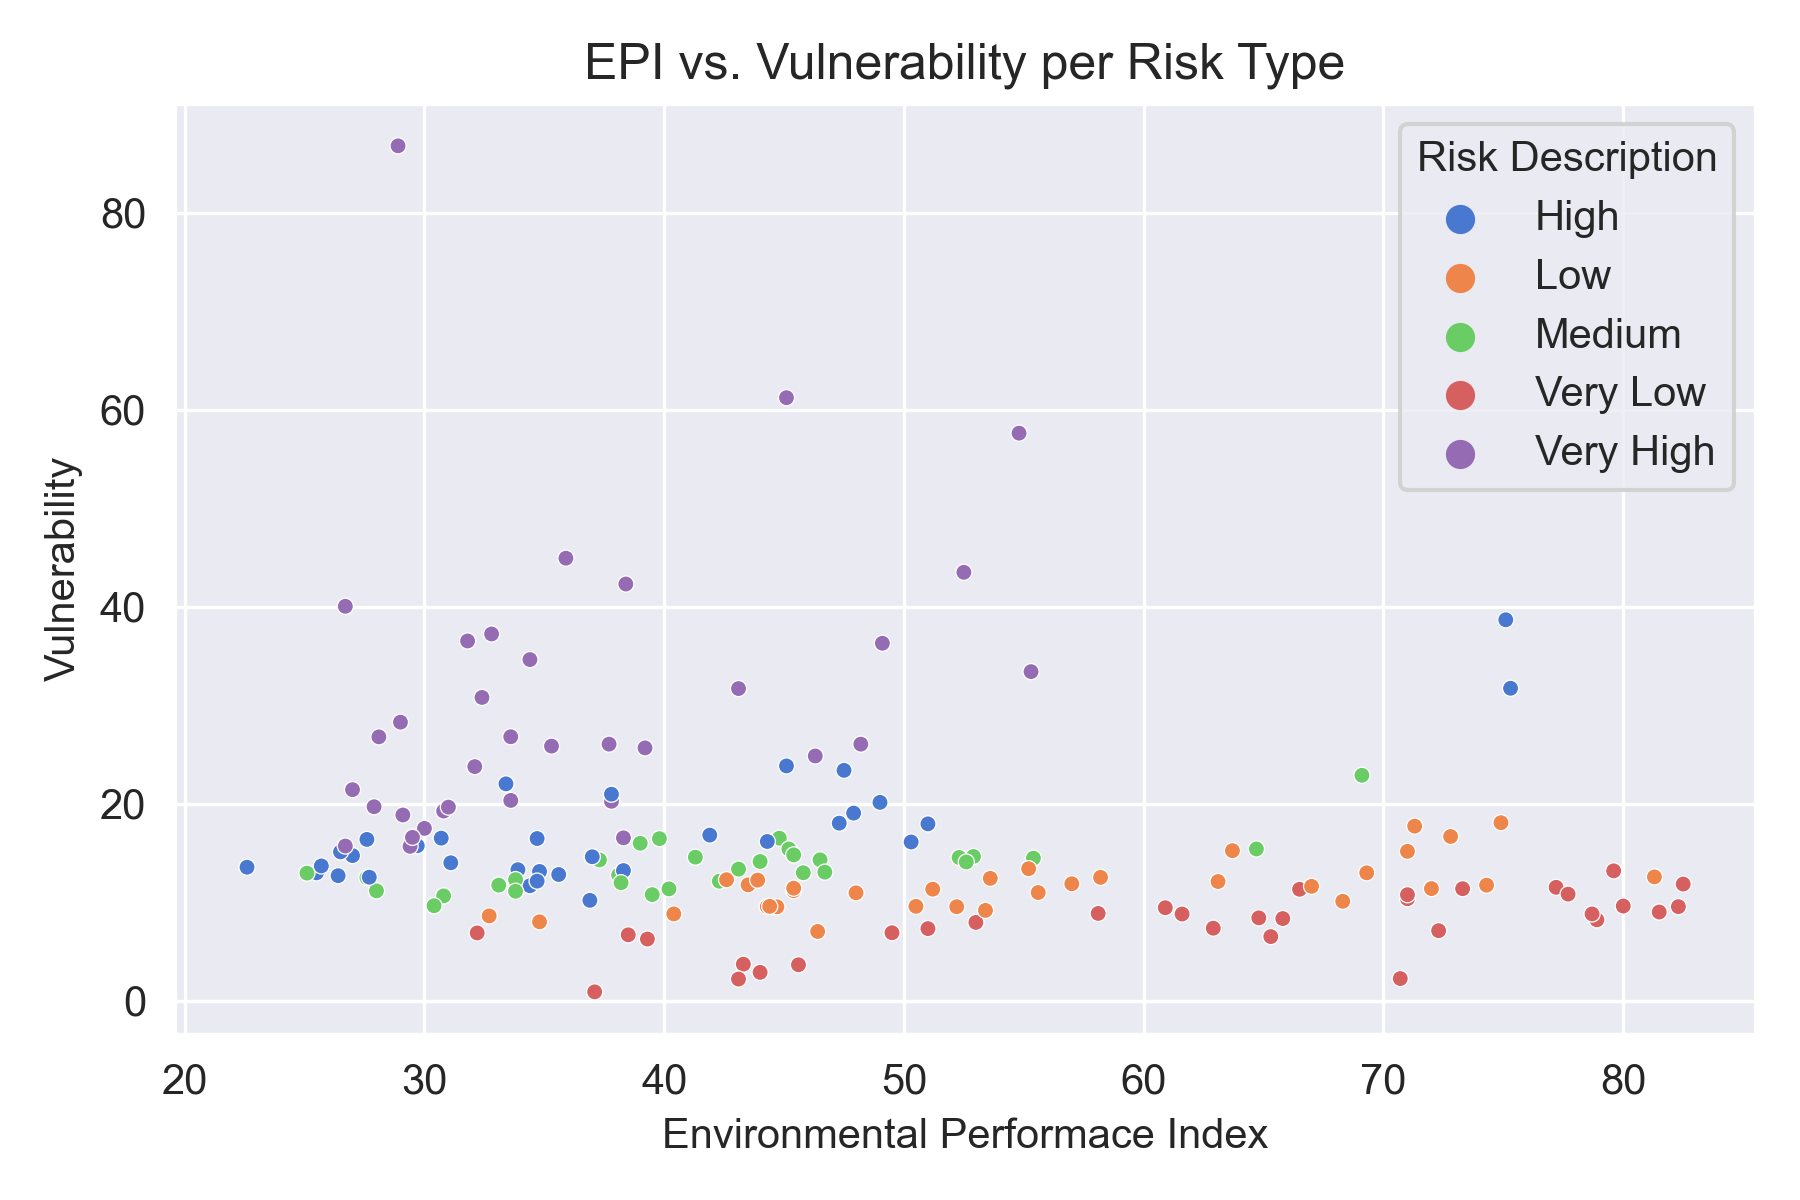
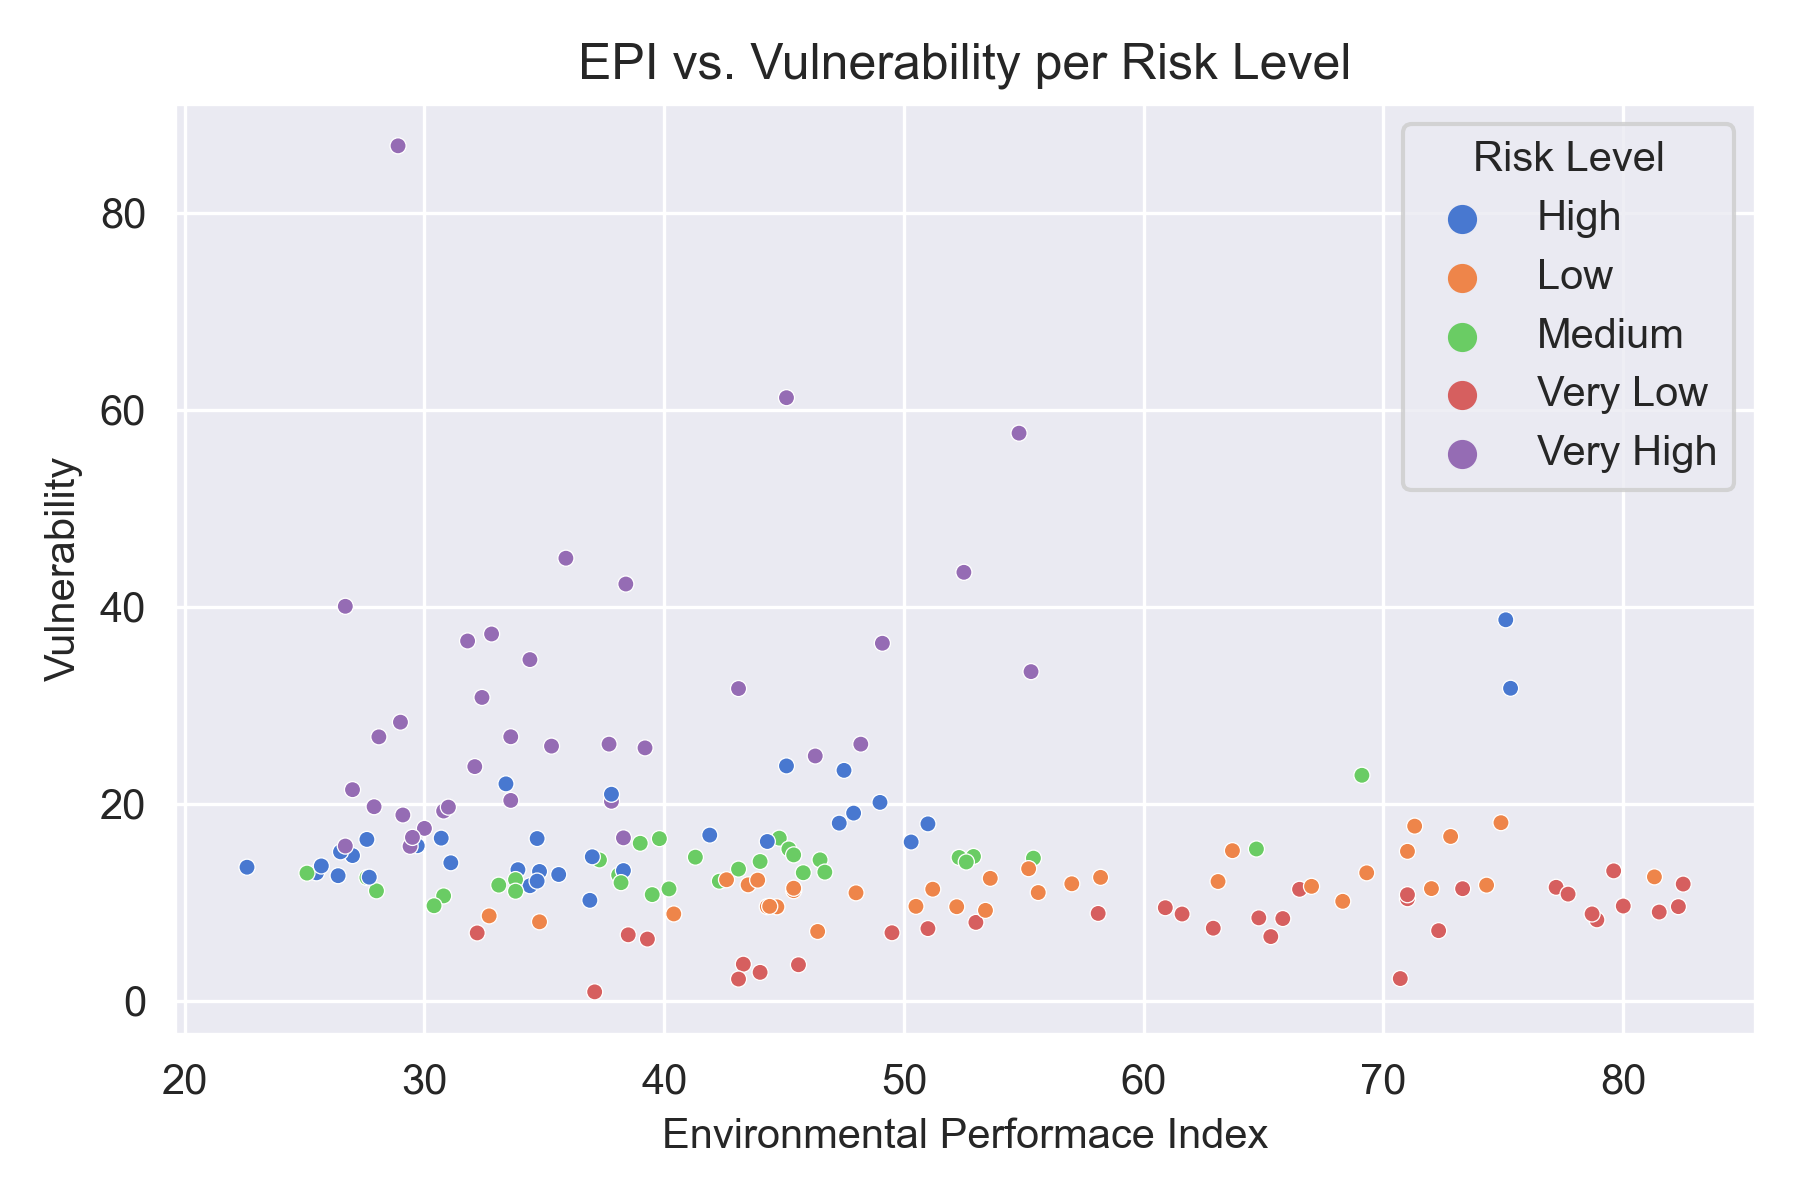
update

diff --git a/script5_analyze/c.epi_vul/c.3 epi_adaptive/scatter_epi_adaptive.py b/script5_analyze/c.epi_vul/c.3 epi_adaptive/scatter_epi_adaptive.py
@@ -64,7 +64,7 @@ status_scatter =sns.scatterplot(x="EPI.new", y="Lack of Adaptive Capacities",
                          palette="muted")
 sns.set_style('darkgrid')
 status_scatter.set(xlabel='Environmental Performace Index', ylabel='Lack of Adaptive Capacities')
-status_scatter.set_title("EPI vs. Lack of Adaptive Capacities per Economic Status")
+status_scatter.set_title("EPI vs. Lack of Adaptive Capacities per Economic Development Status")
 fig.tight_layout()
 fig.savefig('scatter_status.png', dpi=300)
 
@@ -72,11 +72,11 @@ fig.savefig('scatter_status.png', dpi=300)
 
 fig, ax1 = plt.subplots()
 status_scatter =sns.scatterplot(x="EPI.new", y="Lack of Adaptive Capacities", 
-                         hue='Risk Description', data=plots_data, s=15,
+                         hue='Risk Level', data=plots_data, s=15,
                          palette="muted")
 sns.set_style('darkgrid')
 status_scatter.set(xlabel='Environmental Performace Index', ylabel='Lack of Adaptive Capacities')
-status_scatter.set_title("EPI vs. Lack of Adaptive Capacities per Risk Type")
+status_scatter.set_title("EPI vs. Lack of Adaptive Capacities per Risk Level")
 fig.tight_layout()
 fig.savefig('scatter_risktype.png', dpi=300)
 

diff --git a/script5_analyze/c.epi_vul/c.2 epi_coping/scatter_epi_coping.py b/script5_analyze/c.epi_vul/c.2 epi_coping/scatter_epi_coping.py
@@ -64,7 +64,7 @@ status_scatter =sns.scatterplot(x="EPI.new", y="Lack of Coping Capacities",
                          palette="muted")
 sns.set_style('darkgrid')
 status_scatter.set(xlabel='Environmental Performace Index', ylabel='Lack of Coping Capacities')
-status_scatter.set_title("EPI vs. Lack of Coping Capacities per Economic Status")
+status_scatter.set_title("EPI vs. Lack of Coping Capacities per Economic Development Status")
 fig.tight_layout()
 fig.savefig('scatter_status.png', dpi=300)
 
@@ -72,11 +72,11 @@ fig.savefig('scatter_status.png', dpi=300)
 
 fig, ax1 = plt.subplots()
 status_scatter =sns.scatterplot(x="EPI.new", y="Lack of Coping Capacities", 
-                         hue='Risk Description', data=plots_data, s=15,
+                         hue='Risk Level', data=plots_data, s=15,
                          palette="muted")
 sns.set_style('darkgrid')
 status_scatter.set(xlabel='Environmental Performace Index', ylabel='Lack of Coping Capacities')
-status_scatter.set_title("EPI vs. Lack of Coping Capacities per Risk Type")
+status_scatter.set_title("EPI vs. Lack of Coping Capacities per Risk Level")
 fig.tight_layout()
 fig.savefig('scatter_risktype.png', dpi=300)
 

diff --git a/script5_analyze/c.epi_vul/c.1 epi_susceptibility/scatter_epi_suscep.py b/script5_analyze/c.epi_vul/c.1 epi_susceptibility/scatter_epi_suscep.py
@@ -63,7 +63,7 @@ status_scatter =sns.scatterplot(x="EPI.new", y="Susceptibility",
                          palette="muted")
 sns.set_style('darkgrid')
 status_scatter.set(xlabel='Environmental Performace Index', ylabel='Susceptibility')
-status_scatter.set_title("EPI vs. Susceptibility per Economic Status")
+status_scatter.set_title("EPI vs. Susceptibility per Economic Development Status")
 fig.tight_layout()
 fig.savefig('scatter_status.png', dpi=300)
 
@@ -71,11 +71,11 @@ fig.savefig('scatter_status.png', dpi=300)
 
 fig, ax1 = plt.subplots()
 status_scatter =sns.scatterplot(x="EPI.new", y="Susceptibility", 
-                         hue='Risk Description', data=plots_data, s=15,
+                         hue='Risk Level', data=plots_data, s=15,
                          palette="muted")
 sns.set_style('darkgrid')
 status_scatter.set(xlabel='Environmental Performace Index', ylabel='Susceptibility')
-status_scatter.set_title("EPI vs. Susceptibility per Risk Type")
+status_scatter.set_title("EPI vs. Susceptibility per Risk Level")
 fig.tight_layout()
 fig.savefig('scatter_risktype.png', dpi=300)
 

diff --git a/script5_analyze/c.epi_vul/c.0 epi_vulnerability/scatter_epi_vul.py b/script5_analyze/c.epi_vul/c.0 epi_vulnerability/scatter_epi_vul.py
@@ -63,7 +63,7 @@ status_scatter =sns.scatterplot(x="EPI.new", y="Vulnerability",
                          palette="muted")
 sns.set_style('darkgrid')
 status_scatter.set(xlabel='Environmental Performace Index', ylabel='Vulnerability')
-status_scatter.set_title("EPI vs. Vulnerability per Economic Status")
+status_scatter.set_title("EPI vs. Vulnerability per Economic Development Status")
 fig.tight_layout()
 fig.savefig('scatter_status.png', dpi=300)
 
@@ -71,11 +71,11 @@ fig.savefig('scatter_status.png', dpi=300)
 
 fig, ax1 = plt.subplots()
 status_scatter =sns.scatterplot(x="EPI.new", y="Exposure", 
-                         hue='Risk Description', data=plots_data, s=15,
+                         hue='Risk Level', data=plots_data, s=15,
                          palette="muted")
 sns.set_style('darkgrid')
 status_scatter.set(xlabel='Environmental Performace Index', ylabel='Vulnerability')
-status_scatter.set_title("EPI vs. Vulnerability per Risk Type")
+status_scatter.set_title("EPI vs. Vulnerability per Risk Level")
 fig.tight_layout()
 fig.savefig('scatter_risktype.png', dpi=300)
 

diff --git a/script5_analyze/b.epi_expo/scatter_epi_expo.py b/script5_analyze/b.epi_expo/scatter_epi_expo.py
@@ -63,7 +63,7 @@ status_scatter =sns.scatterplot(x="EPI.new", y="Exposure",
                          palette="muted")
 sns.set_style('darkgrid')
 status_scatter.set(xlabel='Environmental Performace Index', ylabel='Exposure')
-status_scatter.set_title("EPI vs. Exposure per Economic Status")
+status_scatter.set_title("EPI vs. Exposure per Economic Development Status")
 fig.tight_layout()
 fig.savefig('scatter_status.png', dpi=300)
 
@@ -75,7 +75,7 @@ status_scatter =sns.scatterplot(x="EPI.new", y="Exposure",
                          palette="muted")
 sns.set_style('darkgrid')
 status_scatter.set(xlabel='Environmental Performace Index', ylabel='Exposure')
-status_scatter.set_title("EPI vs. Exposure per Risk Type")
+status_scatter.set_title("EPI vs. Exposure per Risk Level")
 fig.tight_layout()
 fig.savefig('scatter_risk.png', dpi=300)
 

diff --git a/script5_analyze/a.epi_wri/scatter_epi_wri.py b/script5_analyze/a.epi_wri/scatter_epi_wri.py
@@ -62,7 +62,7 @@ status_scatter =sns.scatterplot(x="EPI.new", y="2020",
                          palette="muted")
 sns.set_style('darkgrid')
 status_scatter.set(xlabel='Environmental Performace Index', ylabel='World Risk Index')
-status_scatter.set_title("EPI vs. WRI per Economic Status")
+status_scatter.set_title("EPI vs. WRI per Economic Development Status")
 fig.tight_layout()
 fig.savefig('scatter_status.png', dpi=300)
 
@@ -74,7 +74,7 @@ status_scatter =sns.scatterplot(x="EPI.new", y="2020",
                          palette="muted")
 sns.set_style('darkgrid')
 status_scatter.set(xlabel='Environmental Performace Index', ylabel='World Risk Index')
-status_scatter.set_title("EPI vs. WRI per Risk Type")
+status_scatter.set_title("EPI vs. WRI per Risk Level")
 fig.tight_layout()
 fig.savefig('scatter_risk.png', dpi=300)
 
